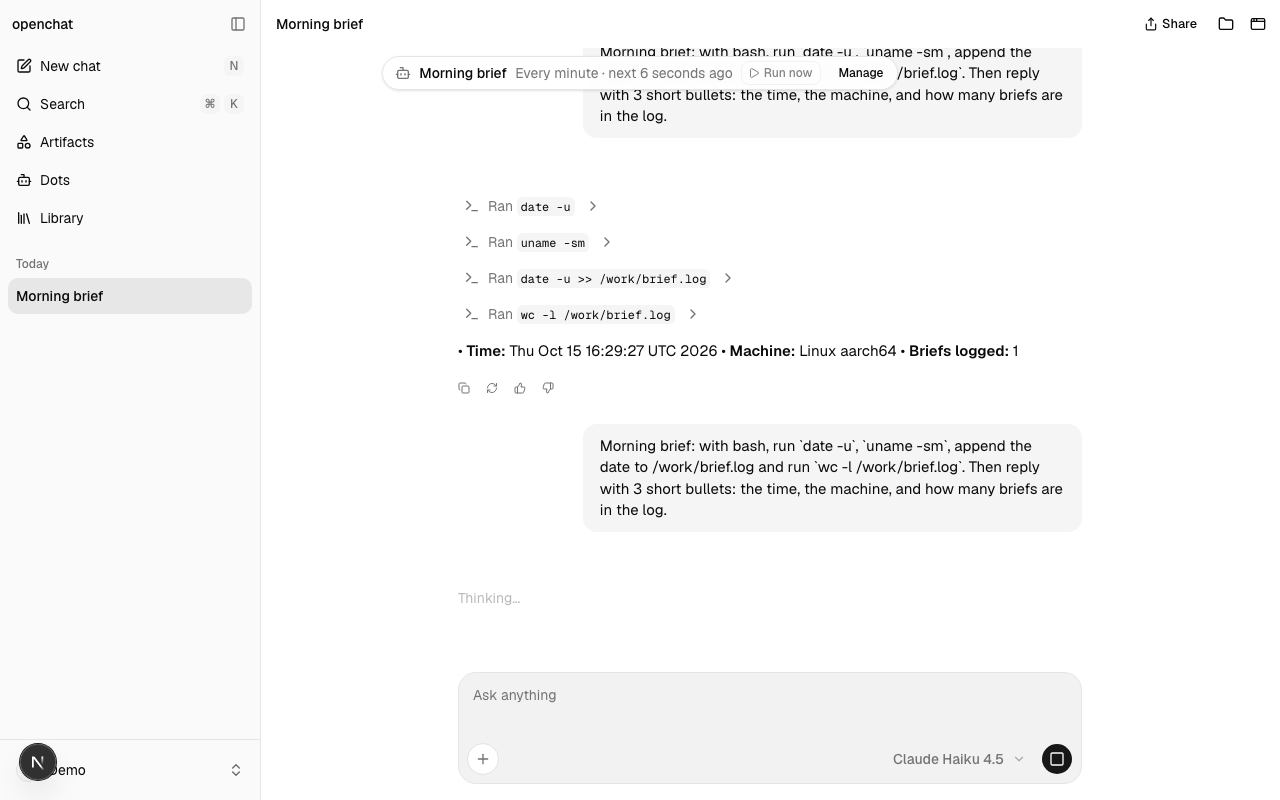
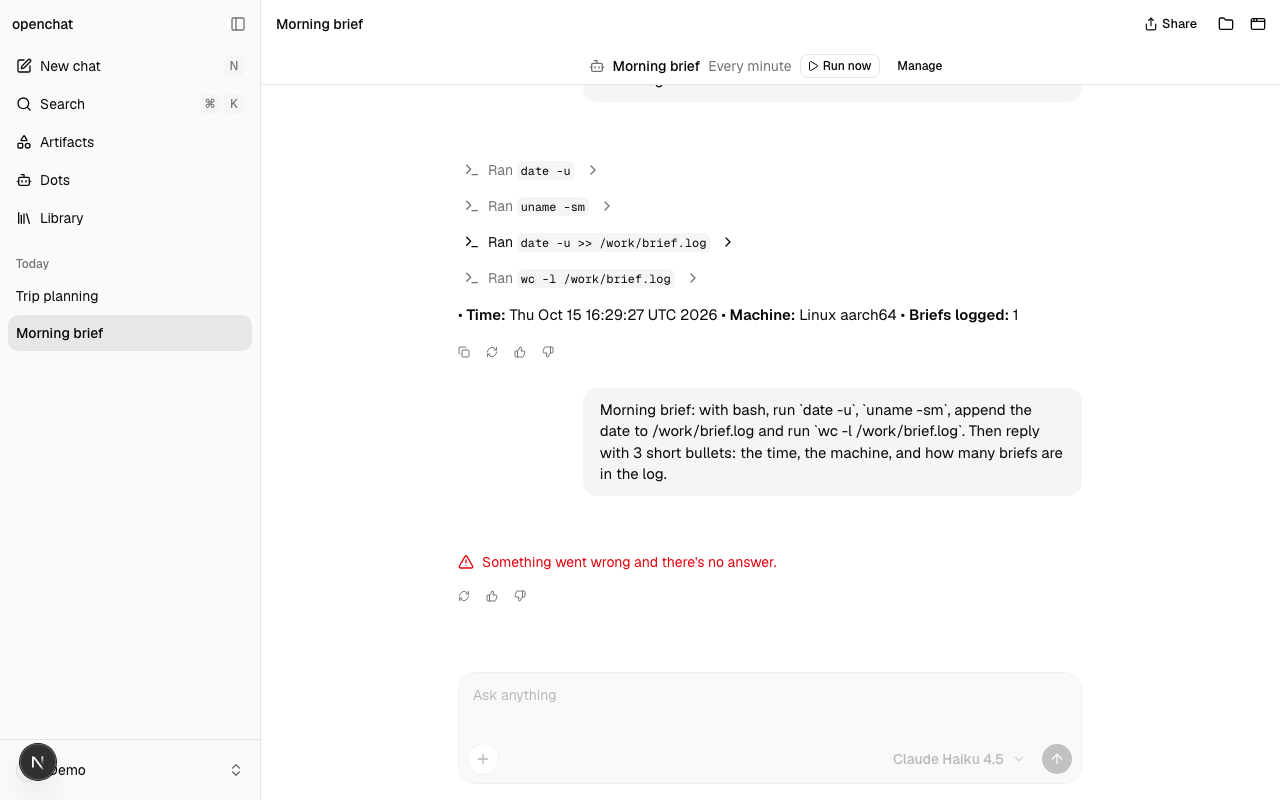
172: Dot schedule bar in the chat's flow; 'due now' for a passed next run

diff --git a/apps/web/app/(app)/(chat)/chat-route.tsx b/apps/web/app/(app)/(chat)/chat-route.tsx
@@ -472,41 +472,39 @@ export function ChatRoute({
     return null;
   }
   return (
-    <>
-      <DotBanner conversationId={conversationId} />
-      <ConnectedChat
-        agents={agents}
-        artifactsHref={routes.artifacts}
-        artifactsRuntimeOrigin={artifactsRuntimeOrigin}
-        brand={<Brand config={config} />}
-        client={client}
-        config={config}
-        conversationId={conversationId}
-        dotsHref={routes.dots}
-        draftContext={chat.draftContext}
-        initialPrompt={
-          conversationId ? null : searchParams.get(routeParams.askAi)
-        }
-        layout={layout}
-        libraryHref={routes.library}
-        me={me}
-        models={models.data ?? NO_MODELS}
-        onDraftContextChange={chat.setDraftContext}
-        onNavigate={navigate}
-        onNewOrg={frame.openNewOrg}
-        onOpenAdmin={canAdmin(me) ? openAdmin : undefined}
-        onOpenPalette={frame.openPalette}
-        onOpenSettings={openSettings}
-        onSignOut={frame.signOut}
-        onTargetChange={changeTarget}
-        onThemeChange={frame.setTheme}
-        platform={platform}
-        sandboxClient={sandboxClient}
-        sendTarget={sendTarget}
-        skills={skills}
-        target={target}
-        theme={frame.theme}
-      />
-    </>
+    <ConnectedChat
+      agents={agents}
+      artifactsHref={routes.artifacts}
+      artifactsRuntimeOrigin={artifactsRuntimeOrigin}
+      banner={<DotBanner conversationId={conversationId} />}
+      brand={<Brand config={config} />}
+      client={client}
+      config={config}
+      conversationId={conversationId}
+      dotsHref={routes.dots}
+      draftContext={chat.draftContext}
+      initialPrompt={
+        conversationId ? null : searchParams.get(routeParams.askAi)
+      }
+      layout={layout}
+      libraryHref={routes.library}
+      me={me}
+      models={models.data ?? NO_MODELS}
+      onDraftContextChange={chat.setDraftContext}
+      onNavigate={navigate}
+      onNewOrg={frame.openNewOrg}
+      onOpenAdmin={canAdmin(me) ? openAdmin : undefined}
+      onOpenPalette={frame.openPalette}
+      onOpenSettings={openSettings}
+      onSignOut={frame.signOut}
+      onTargetChange={changeTarget}
+      onThemeChange={frame.setTheme}
+      platform={platform}
+      sandboxClient={sandboxClient}
+      sendTarget={sendTarget}
+      skills={skills}
+      target={target}
+      theme={frame.theme}
+    />
   );
 }

diff --git a/packages/chat-ui/src/chat/chat-screen.tsx b/packages/chat-ui/src/chat/chat-screen.tsx
@@ -138,6 +138,8 @@ export interface WorkspaceHandle {
 
 export interface ChatScreenProps {
   readonly actions: ConversationActions;
+  /** A bar above the messages, in the flow (a Dot's schedule, 172). */
+  readonly banner?: ReactNode;
   readonly brand?: ReactNode;
   readonly composer: ComposerLoaderProps;
   readonly conversation: ChatScreenConversation;
@@ -211,6 +213,7 @@ const textValue = (text: string): ComposerValue => ({
 
 function ChatScreenBody({
   actions,
+  banner,
   brand,
   composer,
   conversation,
@@ -749,6 +752,7 @@ function ChatScreenBody({
     >
       {/* A size container: the centred composer is placed against its height. */}
       <div className="flex min-h-0 flex-1 flex-col [container-type:size]">
+        {banner}
         <FilePreviewContext.Provider value={chatWorkspace ? previewFile : null}>
           <ConversationView
             actions={conversationActions}

diff --git a/packages/chat-ui/src/chat/connected-chat.tsx b/packages/chat-ui/src/chat/connected-chat.tsx
@@ -136,6 +136,8 @@ export interface ConnectedChatProps {
    * `runtimeOriginFrom`. Omitted or `null`, previews fall back to `srcdoc`.
    */
   readonly artifactsRuntimeOrigin?: string | null;
+  /** A bar above the messages (a Dot's schedule, 172). */
+  readonly banner?: ReactNode;
   readonly brand?: ReactNode;
   readonly client: ApiClient;
   readonly config: PublicConfig;
@@ -1427,6 +1429,7 @@ export function ConnectedChat({
   brand,
   client,
   artifactsHref,
+  banner,
   dotsHref,
   config,
   conversationId,
@@ -1829,6 +1832,7 @@ export function ConnectedChat({
       <PlanStatusProvider value={planStatus}>
         <ChatScreen
           actions={actions}
+          banner={banner}
           brand={brand}
           composer={{
             agents,

diff --git a/apps/web/app/(app)/(pages)/dots/schedule-text.tsx b/apps/web/app/(app)/(pages)/dots/schedule-text.tsx
@@ -66,11 +66,19 @@ export const useScheduleText = () => {
 
 /** "in 3 minutes" for the next run, or `null` when nothing is scheduled. */
 export const useNextRunText = () => {
-  const { i18n } = useLingui();
+  const { i18n, t } = useLingui();
   return useCallback(
-    (iso: string | null): string | null =>
-      iso ? formatRelativeTime(iso, i18n.locale) : null,
-    [i18n.locale]
+    (iso: string | null): string | null => {
+      if (!iso) {
+        return null;
+      }
+      // A slot just fired and the list hasn't refreshed yet: say so, rather
+      // than "a few seconds ago".
+      return new Date(iso).getTime() <= Date.now()
+        ? t`due now`
+        : formatRelativeTime(iso, i18n.locale);
+    },
+    [i18n.locale, t]
   );
 };
 

diff --git a/apps/web/app/(app)/(pages)/dots/dot-banner.tsx b/apps/web/app/(app)/(pages)/dots/dot-banner.tsx
@@ -63,10 +63,10 @@ export function DotBanner({
   }
   const next = dot.enabled ? nextText(dot.nextRunAt) : null;
   return (
-    <div className="pointer-events-none fixed inset-x-0 top-14 z-20 flex justify-center px-4">
+    <div className="flex shrink-0 justify-center border-border border-b px-4 py-1.5">
       <section
         aria-label={t`Dot schedule`}
-        className="pointer-events-auto flex max-w-full items-center gap-2 rounded-full border border-border bg-background/95 py-1 ps-3 pe-1 text-sm shadow-sm backdrop-blur"
+        className="flex max-w-full items-center gap-2 text-sm"
       >
         <BotIcon
           aria-hidden
